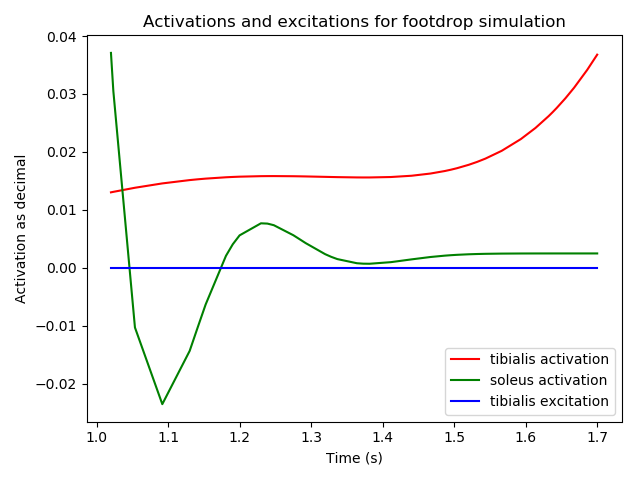
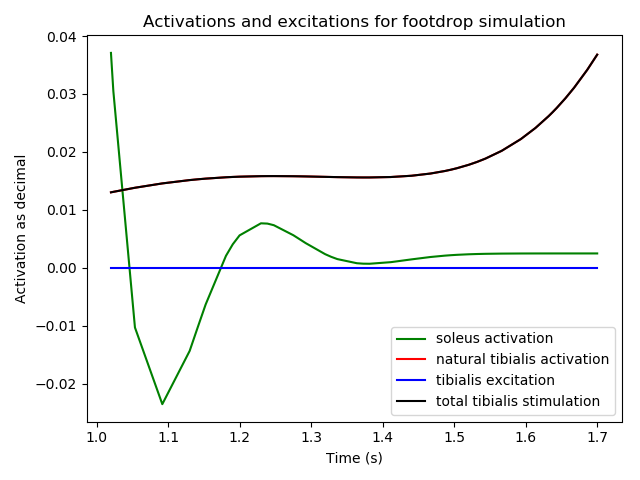
Get proportional gain working pretty well

diff --git a/gait_simulate.py b/gait_simulate.py
@@ -77,34 +77,41 @@ class GaitSimulator:
         """
         return r.soleus_activation(t)[0]
 
-    def get_tibialis_activation(self, t, beta, theta):
+    def get_tibialis_activation(self, t, beta):
         """
         :param t: current time 
         :param beta: angle from foot to shank
-        :param theta: angle from shank to vertical
-        :param d_beta: derivative of beta
-        :param d_theta: derivative of theta
-        :return the practical tibialis activation for the type of simulation
+        :return the resulting tibialis stimulation 
+        """
+        return self.get_natural_tibialis_activation(t) + self.get_tibialis_excitation(t, beta) 
+
+    def get_natural_tibialis_activation(self, t):
+        """
+        :param t: current time
+        :return the natural tibialis activation from the muscle for the type of simulation
         """
         scaler = 1
         if self.footDrop:
             # reduce by a certain amount
             scaler = 0.05
+        return r.tibialis_activation(t)*scaler
 
-        return r.tibialis_activation(t)*scaler + self.get_tibialis_excitation(t, beta, theta) 
-
-
-    def get_tibialis_excitation(self, t, beta, theta):
+    def get_tibialis_excitation(self, t, beta):
         """
         :param t: current time
         :param beta: angle from foot to shank, used to calculate error from desired trajectory
-        :param theta: angle from shank to vertical
         :return the applied excitation for the tibialis as an additional normalized activation  
         """
-        # TODO: complete
         if self.fes:
+            # apply excitation proportional to how much beta > pi/2 
+            # this should drive beta to pi/2 
+            err = beta - DESIRED_BETA_TRAJECTORY
+            self.last_error = err 
+            self.total_error = self.total_error + abs(err)
 
-            return 0.5
+            # ** do nothing if beta <= pi/2 **
+            if err > 0:
+                return self.Kp*err
 
         # if no fes, return 0 excitation applied
         return 0 
@@ -126,7 +133,7 @@ class GaitSimulator:
         K = r.knee_angle(t)
         theta = K - H
         
-        activation_tibialis = self.get_tibialis_activation(t, beta, theta)
+        activation_tibialis = self.get_tibialis_activation(t, beta)
         activation_soleus = self.get_soleus_activation(t)
 
         # calculated
@@ -164,7 +171,7 @@ class GaitSimulator:
         print("Foot Drop = {}".format(self.footDrop))
         print("FES = {}".format(self.fes))
         if(self.fes):
-            print("Kp = {}, Kd = {}".format(self.Kp, self.Kd))
+            print("Kp = {}, Kd = {}, Ki = {}".format(self.Kp, self.Kd, self.Ki))
 
         print("\nSimulating...")
         def f(t, x):
@@ -184,15 +191,13 @@ class GaitSimulator:
         h_ankle = HIP_HEIGHT - np.cos(np.pi - H0)*THIGH_LENGTH - SHANK_LENGTH*np.cos(th0)
         beta0 = np.pi - 1/np.cos(h_ankle/FOOT_LENGTH) + th0
 
-        plot_regressions(t0, CYCLE_PERIOD)
+        # plot_regressions(t0, CYCLE_PERIOD)
 
-        x0 = [beta0, 0, 1.1, 0.95] # TODO: initial values need to be determined 
+        x0 = [beta0, 0, 1.1, 0.95]
         sol = solve_ivp(
                         f, 
                         [t0, CYCLE_PERIOD], 
-                        x0, 
-                        # rtol=1e-5, 
-                        # atol=1e-8
+                        x0
                     )
 
         self.get_outputs(sol)
@@ -217,6 +222,7 @@ class GaitSimulator:
         act_soleus = []
         act_tibialis = []
         excit_tibialis = []
+        stim_tibialis = []
 
         print("Number of data points = {}".format(len(time)))
 
@@ -225,20 +231,26 @@ class GaitSimulator:
             l_tendon_norm_soleus = self.soleus.norm_tendon_length(soleus_length(b), ls)
             l_tendon_norm_tibialis = self.tibialis.norm_tendon_length(tibialis_length(b), lt)
             torque_soleus = force_length_tendon_single_val(l_tendon_norm_soleus) * F_MAX_SOLEUS * self.get_soleus_activation(t) * MOMENT_ARM_SOLEUS
-            torque_tibant = force_length_tendon_single_val(l_tendon_norm_tibialis) * F_MAX_TIBIALIS * self.get_tibialis_activation(t, b, th) * MOMENT_ARM_TIBIALIS
+            torque_tibant = force_length_tendon_single_val(l_tendon_norm_tibialis) * F_MAX_TIBIALIS * self.get_tibialis_activation(t, b) * MOMENT_ARM_TIBIALIS
             
             soleus_moment.append(-torque_soleus)
             tibialis_moment.append(torque_tibant)
             ankle_height.append(HIP_HEIGHT - np.cos(np.pi - r.hip_angle(t))*THIGH_LENGTH - SHANK_LENGTH*np.cos(abs(th)))
             toe_height.append(HIP_HEIGHT - np.cos(np.pi - r.hip_angle(t))*THIGH_LENGTH - SHANK_LENGTH*np.cos(abs(th)) + FOOT_LENGTH*np.sin(np.pi/2 - b + th)) 
-            excit_tibialis.append(self.get_tibialis_excitation(t, b, th))
+            excit_tibialis.append(self.get_tibialis_excitation(t, b))
             act_soleus.append(self.get_soleus_activation(t))
-            act_tibialis.append(self.get_tibialis_activation(t, b, th))
+            act_tibialis.append(self.get_natural_tibialis_activation(t))
+            stim_tibialis.append(self.get_tibialis_activation(t, b))
             grav_ankle_moment.append(gravity_moment_ankle(b, th))
 
         print("\nMuscle fatigue:")
         print("Soleus = {}".format(np.trapz(act_soleus)))
-        print("Tibialis Anterior = {}".format(np.trapz(act_tibialis)))
+        print("Tibialis Anterior = {}".format(np.trapz(stim_tibialis)))
+
+        if self.fes:
+            print("\nControl success:")
+            print("Total error (integral) = {} rads".format(self.total_error))
+            print("Steady state error = {} rads".format(self.last_error))
 
         # plot results 
         plt.figure()
@@ -250,6 +262,7 @@ class GaitSimulator:
         plt.xlabel('Time (s)')
         plt.tight_layout()
         plt.savefig("outputs/angles_{}.png".format(self.suffix()))
+        plt.close()
 
         plt.figure()
         plt.title("Moments around the ankle for {} simulation".format(self.suffix()))
@@ -263,6 +276,7 @@ class GaitSimulator:
         # plt.ylim(-3, 4)
         plt.tight_layout()
         plt.savefig("outputs/moments_{}.png".format(self.suffix()))
+        plt.close()
 
         plt.figure()
         plt.title("Height off the ground for {} simulation".format(self.suffix()))
@@ -274,17 +288,20 @@ class GaitSimulator:
         # plt.ylim(0, 0.5)
         plt.tight_layout()
         plt.savefig("outputs/heights_{}.png".format(self.suffix()))
+        plt.close()
 
         plt.figure()
         plt.title("Activations and excitations for {} simulation".format(self.suffix()))
-        plt.plot(time, act_tibialis, 'r')
         plt.plot(time, act_soleus, 'g')
+        plt.plot(time, act_tibialis, 'r')
         plt.plot(time, excit_tibialis, 'b')
-        plt.legend(("tibialis activation", "soleus activation", "tibialis excitation"))
+        plt.plot(time, stim_tibialis, 'k')
+        plt.legend(("soleus activation", "natural tibialis activation", "tibialis excitation", "total tibialis stimulation"))
         plt.ylabel("Activation as decimal")
         plt.xlabel("Time (s)")
         plt.tight_layout()
         plt.savefig("outputs/activations_{}.png".format(self.suffix()))
+        plt.close()
 
         plt.figure()
         plt.title("Normalized CE lengths for {} simulation".format(self.suffix()))
@@ -295,6 +312,7 @@ class GaitSimulator:
         plt.xlabel("Time (s)")
         plt.tight_layout()
         plt.savefig("outputs/lengths_{}.png".format(self.suffix()))
+        plt.close()
 
 
 
@@ -350,6 +368,7 @@ def plot_regressions(t0, tf):
     plt.xlabel("Time (s)")
     plt.title("Joint angles throughout gait from regression model")
     plt.savefig("outputs/regression_angle.png")
+    plt.close()
 
     plt.figure()
     plt.plot(t, r.hip_torque(t), 'r')
@@ -359,6 +378,7 @@ def plot_regressions(t0, tf):
     plt.xlabel("Time (s)")
     plt.title("Joint torques throughout gait from regression model")
     plt.savefig("outputs/regression_torque.png")
+    plt.close()
 
     plt.figure()
     plt.plot(t, r.tibialis_activation(t), 'r')
@@ -368,3 +388,4 @@ def plot_regressions(t0, tf):
     plt.xlabel("Time (s)")
     plt.title("Normalized activations for normal muscle from regression model")
     plt.savefig("outputs/regression_activation.png")
+    plt.close()

diff --git a/main.py b/main.py
@@ -3,6 +3,6 @@ import muscle
 
 GaitSimulator().simulate()
 
-GaitSimulator(True).simulate()
+GaitSimulator(footDrop=True).simulate()
 
-# GaitSimulator(True, True, 1, 1/10, 1/100)
+GaitSimulator(footDrop=True, fes=True, Kp=2, Kd=1/10, Ki=1/100).simulate()
